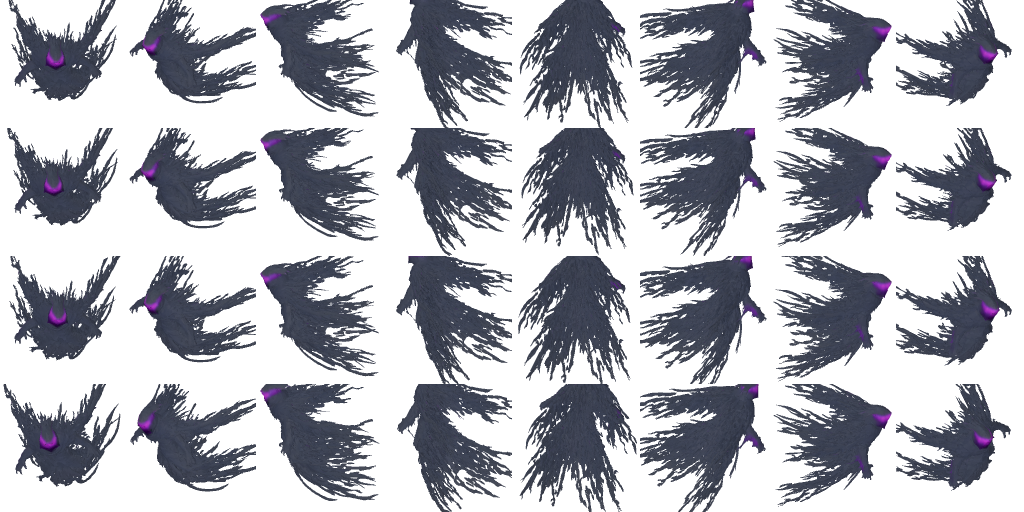
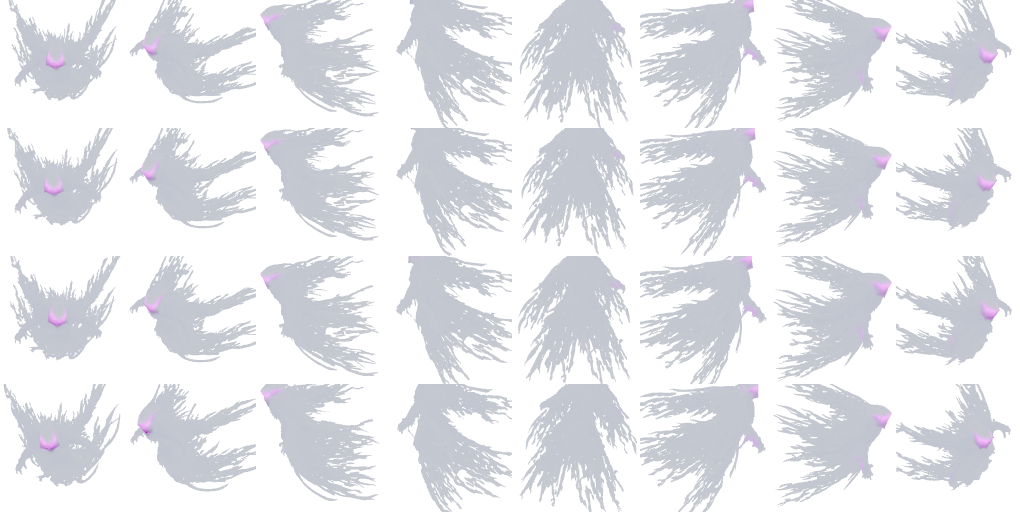
fix: auto-brightness gamma correction for dark 3D creature textures
Hunyuan 3D Rapid generates very dark textures for some creatures (groveheart
was 7/255, wolf 41/255). Switched to MeshBasicMaterial (no PBR darkening)
and added gamma auto-correction targeting 180/255 brightness.
All creatures now 144-222/255 brightness.

diff --git a/client/src/game/textures.ts b/client/src/game/textures.ts
@@ -3368,24 +3368,21 @@ function drawLeprechaun(ctx: CanvasRenderingContext2D, size: number): void {
 // TENNIS TEXTURES
 // ============================================================
 
-/** Draw a tennis court tile — blue-green hard court surface (US Open style). */
+/** Draw a tennis court tile — blue-green hard court surface (US Open style).
+ *  Seamless: flat color so adjacent tiles form one continuous court. */
 function drawTennisCourt(ctx: CanvasRenderingContext2D, size: number): void {
-  // court surface — blue-green hard court, uniform color
-  const grad = ctx.createLinearGradient(0, 0, size, size);
-  grad.addColorStop(0, rgba(0x2e80b8, 1));
-  grad.addColorStop(0.5, rgba(0x3088c0, 1));
-  grad.addColorStop(1, rgba(0x2870a8, 1));
-  ctx.fillStyle = grad;
+  // court surface — flat blue-green, no gradient so tiles blend seamlessly
+  ctx.fillStyle = rgba(0x2e80b8, 1);
   ctx.fillRect(0, 0, size, size);
 
   // subtle texture — faint noise dots for acrylic court feel
-  ctx.fillStyle = rgba(0x4098d0, 0.15);
+  ctx.fillStyle = rgba(0x4098d0, 0.1);
   for (let i = 0; i < 12; i++) {
     const nx = (i * 37 + 13) % size;
     const ny = (i * 53 + 7) % size;
     ctx.fillRect(nx, ny, 2, 2);
   }
-  ctx.fillStyle = rgba(0x1a6090, 0.1);
+  ctx.fillStyle = rgba(0x1a6090, 0.08);
   for (let i = 0; i < 8; i++) {
     const nx = (i * 61 + 23) % size;
     const ny = (i * 43 + 29) % size;
@@ -3393,39 +3390,36 @@ function drawTennisCourt(ctx: CanvasRenderingContext2D, size: number): void {
   }
 }
 
-/** Draw a tennis wall — brick/concrete back wall. */
+/** Draw a tennis wall tile — seamless brick/concrete back wall.
+ *  Flat color + brick mortar lines that continue across tile boundaries. */
 function drawTennisWall(ctx: CanvasRenderingContext2D, size: number): void {
-  // wall base — concrete gray
-  const grad = ctx.createLinearGradient(0, 0, 0, size);
-  grad.addColorStop(0, rgba(0x888888, 1));
-  grad.addColorStop(0.7, rgba(0x777777, 1));
-  grad.addColorStop(1, rgba(0x666666, 1));
-  ctx.fillStyle = grad;
+  // wall base — flat concrete gray, no per-tile gradient
+  ctx.fillStyle = rgba(0x787878, 1);
   ctx.fillRect(0, 0, size, size);
 
-  // brick texture — rows of bricks
+  // brick texture — rows of bricks with mortar lines
+  // Use a brick width that divides evenly into size so vertical lines
+  // align across adjacent tiles (seamless tiling).
   ctx.strokeStyle = rgba(0x555555, 0.5);
   ctx.lineWidth = 0.8;
-  const brickH = size * 0.12;
+  const brickH = size / 8; // 8 rows, divides evenly
+  const brickW = size / 4; // 4 bricks per row, divides evenly
   for (let row = 0; row < 8; row++) {
     const y = row * brickH;
+    // horizontal mortar line
     ctx.beginPath();
     ctx.moveTo(0, y);
     ctx.lineTo(size, y);
     ctx.stroke();
-    // vertical mortar lines — offset every other row
-    const offset = row % 2 === 0 ? 0 : size * 0.25;
-    for (let bx = offset; bx < size; bx += size * 0.5) {
+    // vertical mortar lines — offset every other row by half a brick
+    const offset = row % 2 === 0 ? 0 : brickW / 2;
+    for (let bx = offset; bx < size; bx += brickW) {
       ctx.beginPath();
       ctx.moveTo(bx, y);
       ctx.lineTo(bx, y + brickH);
       ctx.stroke();
     }
   }
-
-  // top edge highlight — white cap
-  ctx.fillStyle = rgba(0xeeeeee, 0.8);
-  ctx.fillRect(0, 0, size, 2);
 }
 
 /** Draw a tennis racket lying diagonally on the ground. */
@@ -3542,38 +3536,20 @@ function drawTennisBall(ctx: CanvasRenderingContext2D, size: number): void {
   ctx.fill();
 }
 
-/** Draw a tennis net — mesh netting between two posts. */
+/** Draw a tennis net tile — seamless mesh netting (no posts).
+ *  Mesh fills the full tile so adjacent net tiles form one continuous net.
+ *  Posts are not drawn here; they would only make sense on edge tiles. */
 function drawTennisNet(ctx: CanvasRenderingContext2D, size: number): void {
-  const cx = size / 2;
-  const cy = size / 2;
-  const netW = size * 0.7;
-  const netH = size * 0.45;
-  const nx = cx - netW / 2;
-  const ny = cy - netH / 2;
+  const netH = size * 0.5;
+  const ny = (size - netH) / 2;
 
-  // posts on either side
-  for (const side of [-1, 1]) {
-    const px = cx + side * (netW / 2);
-    // post shadow
-    ctx.fillStyle = rgba(0x000000, 0.2);
-    ctx.beginPath();
-    ctx.ellipse(px + 1, ny + netH - 1, 2.5, 1.5, 0, 0, Math.PI * 2);
-    ctx.fill();
-    // post
-    ctx.fillStyle = rgba(0x444444, 1);
-    ctx.fillRect(px - 1.5, ny, 3, netH);
-    // post cap — white
-    ctx.fillStyle = rgba(0xeeeeee, 1);
-    ctx.fillRect(px - 2, ny, 4, 2);
-  }
-
-  // net mesh — grid of thin lines
+  // net mesh — grid of thin lines spanning the full tile width
   ctx.strokeStyle = rgba(0xdddddd, 0.5);
   ctx.lineWidth = 0.5;
   const meshCols = 8;
   const meshRows = 5;
   for (let i = 0; i <= meshCols; i++) {
-    const x = nx + (i / meshCols) * netW;
+    const x = (i / meshCols) * size;
     ctx.beginPath();
     ctx.moveTo(x, ny + 1);
     ctx.lineTo(x, ny + netH - 1);
@@ -3582,14 +3558,14 @@ function drawTennisNet(ctx: CanvasRenderingContext2D, size: number): void {
   for (let i = 0; i <= meshRows; i++) {
     const y = ny + 1 + (i / meshRows) * (netH - 2);
     ctx.beginPath();
-    ctx.moveTo(nx, y);
-    ctx.lineTo(nx + netW, y);
+    ctx.moveTo(0, y);
+    ctx.lineTo(size, y);
     ctx.stroke();
   }
 
-  // top band — white tape
+  // top band — white tape across full width
   ctx.fillStyle = rgba(0xffffff, 0.8);
-  ctx.fillRect(nx, ny, netW, 2);
+  ctx.fillRect(0, ny, size, 2);
 }
 
 // ============================================================

diff --git a/scripts/render-creature-sprites.ts b/scripts/render-creature-sprites.ts
@@ -174,19 +174,13 @@ const RENDER_FN = async (objUrl: string, mtlUrl: string | null, textureUrl: stri
   });
   scene.add(model);
 
-  // Apply texture to all meshes — override MTL materials to ensure texture is used
+  // Apply texture to all meshes using MeshBasicMaterial — no PBR lighting
+  // darkening, texture colors show at full brightness. We add subtle shading
+  // via a second pass with face normals.
   if (texture) {
     model.traverse((child: any) => {
       if (child.isMesh) {
-        const mat = child.material;
-        if (mat && mat.map !== texture) {
-          mat.map = texture;
-          mat.color = new THREE.Color(0xffffff);
-          mat.needsUpdate = true;
-        }
-        if (!mat) {
-          child.material = new THREE.MeshStandardMaterial({ map: texture });
-        }
+        child.material = new THREE.MeshBasicMaterial({ map: texture });
       }
     });
   }
@@ -229,6 +223,11 @@ const RENDER_FN = async (objUrl: string, mtlUrl: string | null, textureUrl: stri
   sheetCanvas.height = 128 * 4;
   const sheetCtx = sheetCanvas.getContext("2d")!;
 
+  // Compute average brightness of the spritesheet to auto-correct dark textures
+  const sampleCanvas = document.createElement("canvas");
+  sampleCanvas.width = 32; sampleCanvas.height = 32;
+  const sampleCtx = sampleCanvas.getContext("2d")!;
+
   for (let anim = 0; anim < 4; anim++) {
     for (let dir = 0; dir < 8; dir++) {
       model.rotation.y = dirRotations[dir];
@@ -239,6 +238,36 @@ const RENDER_FN = async (objUrl: string, mtlUrl: string | null, textureUrl: stri
       renderer.render(scene, cam);
       sheetCtx.drawImage(renderer.domElement, dir * 128, anim * 128);
     }
+  }
+
+  // Auto-brighten: sample center frame, compute mean brightness, apply gamma correction if dark
+  sampleCtx.drawImage(sheetCanvas, 0, 0, 128, 128, 0, 0, 32, 32);
+  const sampleData = sampleCtx.getImageData(0, 0, 32, 32).data;
+  let sum = 0, count = 0;
+  for (let i = 0; i < sampleData.length; i += 4) {
+    if (sampleData[i + 3] > 0) {
+      sum += (sampleData[i] + sampleData[i + 1] + sampleData[i + 2]) / 3;
+      count++;
+    }
+  }
+  const avgBrightness = count > 0 ? sum / count : 128;
+  // Target brightness ~180/255; apply gamma correction if darker than 150
+  if (avgBrightness < 150 && count > 0) {
+    // We want: current^invGamma = target → invGamma = log(target)/log(current)
+    const target = 180 / 255;
+    const current = Math.max(avgBrightness / 255, 0.01);
+    const invGamma = Math.max(Math.log(target) / Math.log(current), 0.05);
+    const clampedInvGamma = Math.min(invGamma, 0.2); // cap at gamma=5 (invGamma=0.2)
+    const imgData = sheetCtx.getImageData(0, 0, sheetCanvas.width, sheetCanvas.height);
+    const d = imgData.data;
+    for (let i = 0; i < d.length; i += 4) {
+      if (d[i + 3] > 0) {
+        d[i]   = 255 * Math.pow(d[i]   / 255, clampedInvGamma);
+        d[i+1] = 255 * Math.pow(d[i+1] / 255, clampedInvGamma);
+        d[i+2] = 255 * Math.pow(d[i+2] / 255, clampedInvGamma);
+      }
+    }
+    sheetCtx.putImageData(imgData, 0, 0);
   }
 
   return sheetCanvas.toDataURL("image/png");

diff --git a/client/src/game/ai-tiles.ts b/client/src/game/ai-tiles.ts
@@ -109,11 +109,8 @@ export const AI_ITEM_TEXTURES: Record<string, string> = {
   "axe": "ai-fur-axe",
   "tee-box": "ai-fur-tee_box",
   "leprechaun": "ai-fur-leprechaun",
-  "tennis-court": "ai-fur-tennis_court",
-  "tennis-wall": "ai-fur-tennis_wall",
   "tennis-racket": "ai-fur-tennis_racket",
   "tennis-ball": "ai-fur-tennis_ball",
-  "tennis-net": "ai-fur-tennis_net",
 };
 
 /** Item asset keys (without prefix) for loading from furniture/ directory. */
